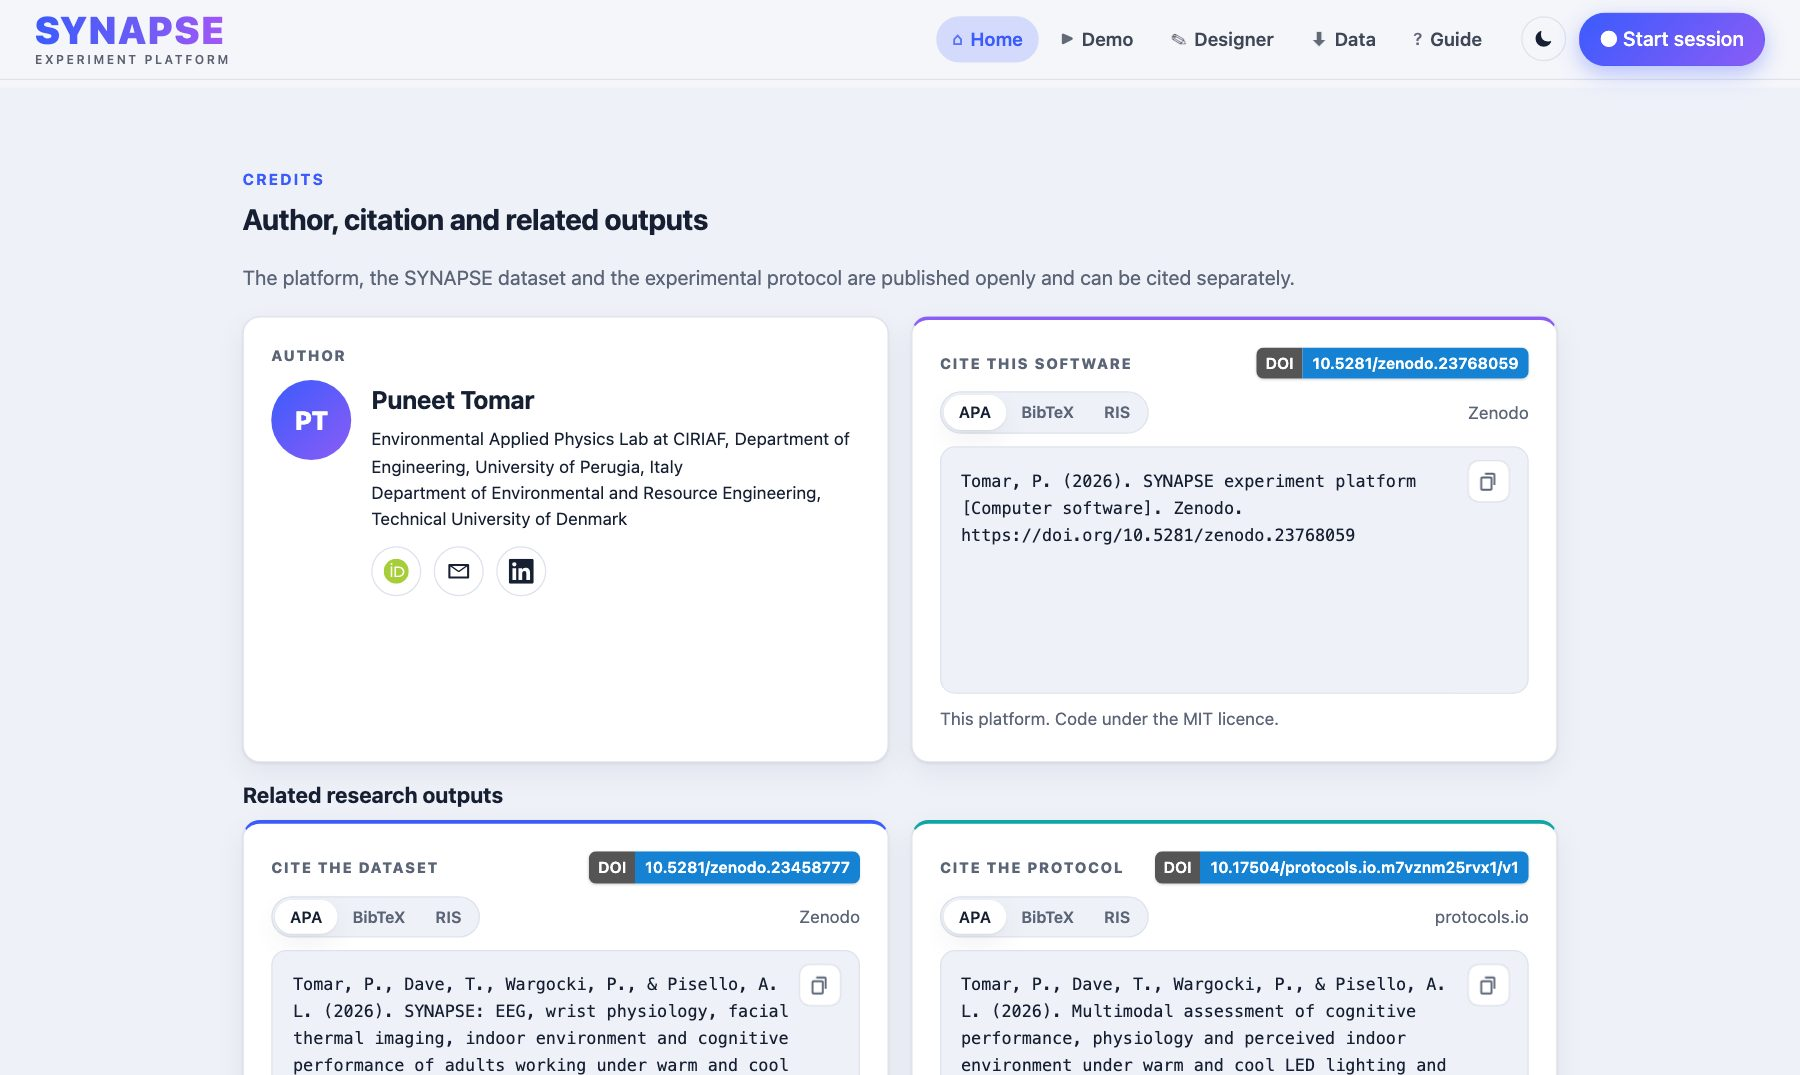
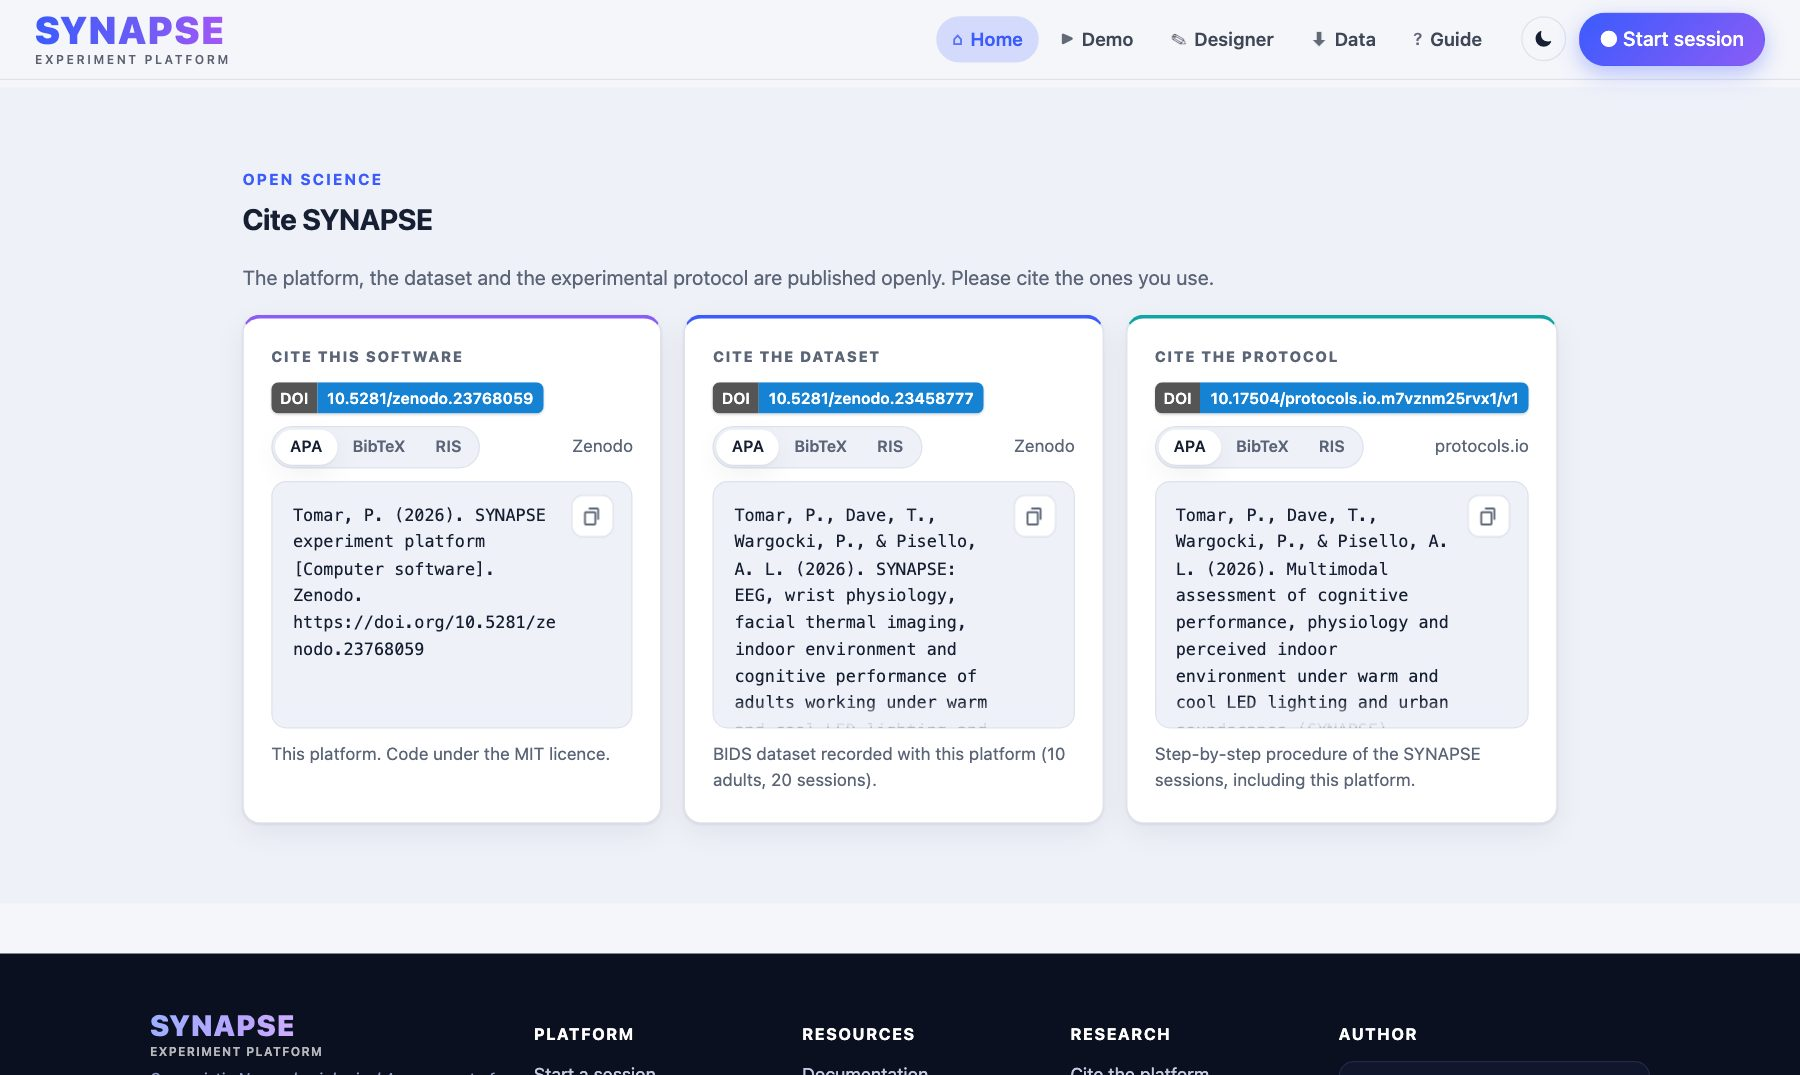
Headline 'privately and locally'; author card with Telegram in the footer; three citation cards

Changed region(s): [[0.0, 0.2456, 1.0, 1.0], [0.1244, 0.1535, 0.4044, 0.2149]]

diff --git a/app/social.js b/app/social.js
@@ -1,13 +1,14 @@
-// Contact icons (ORCID, e-mail, LinkedIn) for the author card and the footer.
+// Contact icons (ORCID, e-mail, LinkedIn, Telegram) for the author card and the footer.
 import { h } from './util.js';
 
 const SVG = {
   email: '<svg viewBox="0 0 24 24" aria-hidden="true"><path fill="currentColor" d="M3 5h18a1 1 0 0 1 1 1v12a1 1 0 0 1-1 1H3a1 1 0 0 1-1-1V6a1 1 0 0 1 1-1Zm1 2.4V17h16V7.4l-7.4 5.2a1 1 0 0 1-1.2 0L4 7.4ZM5.6 7 12 11.5 18.4 7H5.6Z"/></svg>',
   linkedin: '<svg viewBox="0 0 24 24" aria-hidden="true"><path fill="currentColor" d="M20.45 20.45h-3.56v-5.57c0-1.33-.03-3.04-1.85-3.04-1.86 0-2.14 1.45-2.14 2.94v5.67H9.34V9h3.42v1.56h.05c.48-.9 1.64-1.85 3.37-1.85 3.6 0 4.27 2.37 4.27 5.46v6.28ZM5.34 7.43a2.06 2.06 0 1 1 0-4.13 2.06 2.06 0 0 1 0 4.13ZM7.12 20.45H3.56V9h3.56v11.45ZM22.22 0H1.77C.79 0 0 .77 0 1.73v20.54C0 23.22.79 24 1.77 24h20.45c.98 0 1.78-.78 1.78-1.73V1.73C24 .77 23.2 0 22.22 0Z"/></svg>',
+  telegram: '<svg viewBox="0 0 24 24" aria-hidden="true"><path fill="currentColor" d="M21.94 4.3 18.9 18.63c-.23 1.01-.83 1.26-1.68.79l-4.64-3.42-2.24 2.15c-.25.25-.46.46-.94.46l.33-4.73 8.6-7.77c.37-.33-.08-.52-.58-.19L7.12 12.6 2.54 11.17c-1-.31-1.01-1 .21-1.48L20.6 2.8c.83-.3 1.55.2 1.34 1.5Z"/></svg>',
   orcid: '<svg viewBox="0 0 24 24" aria-hidden="true"><circle cx="12" cy="12" r="12" fill="#A6CE39"/><path fill="#fff" d="M8.2 17.6H6.7V7.4h1.5v10.2Zm-.75-11.6a.98.98 0 1 1 0-1.96.98.98 0 0 1 0 1.96ZM10.3 7.4h4c3.8 0 5.5 2.7 5.5 5.1 0 2.6-2.1 5.1-5.5 5.1h-4V7.4Zm1.5 8.8h2.4c3.4 0 4.1-2.6 4.1-3.7 0-1.9-1.2-3.7-4.2-3.7h-2.3v7.4Z"/></svg>',
 };
 
-/** Row of round icon links: ORCID, e-mail, LinkedIn. */
+/** Row of round icon links: ORCID, e-mail, LinkedIn, Telegram. */
 export function socialLinks(author, { size = 'md' } = {}) {
   const link = (kind, href, label) => {
     const a = h('a', { class: `social ${kind}`, href, title: label, 'aria-label': label, ...(kind === 'email' ? {} : { target: '_blank', rel: 'noopener' }) });
@@ -17,5 +18,6 @@ export function socialLinks(author, { size = 'md' } = {}) {
   return h('div', { class: `socials ${size}` },
     link('orcid', `https://orcid.org/${author.orcid}`, `ORCID ${author.orcid}`),
     link('email', `mailto:${author.email}?subject=SYNAPSE%20experiment%20platform`, `E-mail ${author.name}`),
-    link('linkedin', author.linkedin, `${author.name} on LinkedIn`));
+    link('linkedin', author.linkedin, `${author.name} on LinkedIn`),
+    link('telegram', author.telegram, `${author.name} on Telegram (@tomap)`));
 }

diff --git a/app/home.js b/app/home.js
@@ -81,7 +81,7 @@ export function renderHome(root, { author, paused }) {
         h('div', { class: 'hero-text reveal' },
           h('p', { class: 'eyebrow' }, h('span', { class: 'pulse' }), 'Open research software · SYNAPSE project'),
           h('p', { class: 'acronym' }, ...acronym(PROJECT_FULL)),
-          h('h1', {}, 'Design, run and share cognitive experiments ', h('span', { class: 'grad-text' }, 'in any browser.')),
+          h('h1', {}, 'Design, run and share cognitive experiments, ', h('span', { class: 'grad-text' }, 'privately and locally.')),
           h('p', { class: 'lead' }, 'Assemble a session from established task paradigms and questionnaires, run it on any laptop, and export ',
             'analysis-ready data. No installation, no server, and no participant data leaving your computer.'),
           h('div', { class: 'row hero-cta' },
@@ -199,11 +199,9 @@ export const referenceList = () => h('div', { class: 'cite-grid' }, ...OUTPUTS.s
 
 function citeSection(author) {
   return h('section', { class: 'band alt', id: 'cite' },
-    h('div', { class: 'section-head reveal' }, h('p', { class: 'kicker' }, 'Credits'), h('h2', {}, 'Author, citation and related outputs'),
-      h('p', { class: 'muted' }, 'The platform, the SYNAPSE dataset and the experimental protocol are published openly and can be cited separately.')),
-    h('div', { class: 'cite-grid reveal' }, authorCard(author), citeCard()),
-    h('h3', { class: 'reveal' }, 'Related research outputs'),
-    h('div', { class: 'reveal' }, referenceList()));
+    h('div', { class: 'section-head reveal' }, h('p', { class: 'kicker' }, 'Open science'), h('h2', {}, 'Cite SYNAPSE'),
+      h('p', { class: 'muted' }, 'The platform, the dataset and the experimental protocol are published openly. Please cite the ones you use.')),
+    h('div', { class: 'cite-grid three reveal' }, citeCard(), ...OUTPUTS.slice(1).map((o) => citationCard(o))));
 }
 
 /** "SYnergistic Neurophysiological …" with the letters of the acronym highlighted. */

diff --git a/app/nav.js b/app/nav.js
@@ -54,7 +54,11 @@ export function footer() {
         ...REFERENCES.map((r) => (r.doi ? a(doiUrl(r.doi), `SYNAPSE ${r.kind.toLowerCase()} (${r.where})`, true)
           : h('span', { class: 'muted' }, `SYNAPSE ${r.kind.toLowerCase()} (${r.where}, forthcoming)`))),
         a('https://cordis.europa.eu/project/id/101073357', 'MuSIC doctoral network', true)),
-      col('Contact', h('span', {}, AUTHOR.name), h('span', { class: 'muted' }, 'University of Perugia · DTU'),
+      h('div', { class: 'f-col f-author' }, h('h4', {}, 'Author'),
+        h('div', { class: 'f-author-card' },
+          h('div', { class: 'avatar sm' }, AUTHOR.name.split(' ').map((w) => w[0]).join('')),
+          h('div', {}, h('strong', {}, AUTHOR.name),
+            h('span', { class: 'muted' }, 'CIRIAF, University of Perugia'), h('span', { class: 'muted' }, 'Technical University of Denmark'))),
         socialLinks(AUTHOR, { size: 'sm' }))),
     h('div', { class: 'f-funding' }, h('img', { src: 'media/logos/eu_funded_dark.png', alt: 'Funded by the European Union' }), h('p', {}, FUNDING)),
     h('div', { class: 'f-bottom' },

diff --git a/styles/app.css b/styles/app.css
@@ -460,3 +460,14 @@ a.logo-tile:hover { transform: translateY(-2px); background: color-mix(in srgb, 
 .cite-card.kind-software { border-top: 3px solid var(--accent-2); }
 
 .hero h1 .grad-text { white-space: nowrap; }
+
+/* three citation cards in a row; author frame in the footer */
+.cite-grid.three { grid-template-columns: repeat(3, 1fr); }
+@media (max-width: 1100px) { .cite-grid.three { grid-template-columns: 1fr 1fr; } }
+@media (max-width: 760px) { .cite-grid.three { grid-template-columns: 1fr; } }
+.f-grid { grid-template-columns: 1.5fr 1fr 1fr 1fr 1.35fr; }
+.f-author-card { display: flex; gap: 12px; align-items: center; padding: 12px; border: 1px solid #222b45; border-radius: 12px; background: #10162b; margin-bottom: 10px; }
+.f-author-card div:last-child { display: flex; flex-direction: column; gap: 2px; font-size: .84rem; }
+.f-author-card strong { color: #fff; font-size: .95rem; }
+.avatar.sm { width: 42px; height: 42px; font-size: .95rem; }
+.social.telegram:hover { background: #229ed9; border-color: #229ed9; color: #fff; }

diff --git a/app/info.js b/app/info.js
@@ -15,6 +15,7 @@ export const AUTHOR = {
   orcid: '0000-0002-5168-5471',
   email: 'puneet.tomar@proton.me',
   linkedin: 'https://www.linkedin.com/in/tomarp/',
+  telegram: 'https://t.me/tomap',
 };
 
 export const SOFTWARE_DOI = '10.5281/zenodo.23768059';          // Zenodo DOI; always resolves to the latest version

diff --git a/README.md b/README.md
@@ -2,7 +2,7 @@
 
 <img src="docs/images/synapse-wordmark.svg" alt="SYNAPSE experiment platform" width="460">
 
-### Design, run and share cognitive experiments in any browser
+### Design, run and share cognitive experiments, privately and locally
 
 *SYNAPSE: Synergistic Neurophysiological Assessment of Perception in Sensory Environments*
 
@@ -103,7 +103,7 @@ GitHub's **Cite this repository** button (right sidebar) reads the same informat
 **Puneet Tomar**: Environmental Applied Physics Lab at CIRIAF, University of Perugia, and Department of Environmental
 and Resource Engineering, Technical University of Denmark.
 
-[ORCID](https://orcid.org/0000-0002-5168-5471) · [E-mail](mailto:puneet.tomar@proton.me) · [LinkedIn](https://www.linkedin.com/in/tomarp/)
+[ORCID](https://orcid.org/0000-0002-5168-5471) · [E-mail](mailto:puneet.tomar@proton.me) · [LinkedIn](https://www.linkedin.com/in/tomarp/) · [Telegram](https://t.me/tomap)
 
 Questions, ideas and bug reports are welcome as [GitHub issues](https://github.com/tomarp/synapse-platform/issues).
 

diff --git a/CHANGELOG.md b/CHANGELOG.md
@@ -20,7 +20,7 @@
 - **Logo**: the word SYNAPSE as a gradient wordmark, with the tagline “experiment platform” underneath spanning its width
   (browser-tab icon: `media/logos/synapse_icon.svg`).
 - **Public README** with wordmark, badges and screenshots; technical documentation moved to `docs/documentation.md`.
-- **Headline** "Design, run and share cognitive experiments in any browser"; citation frames of equal height that scroll inside.
+- **Headline** "Design, run and share cognitive experiments, privately and locally"; author card in the footer (with Telegram); citation frames of equal height that scroll inside.
 - **Fixes**: a Skip/Back pressed while a step was still loading (e.g. a questionnaire file) could be lost; the abort
   signal is now created first and every step ends reliably.
 
